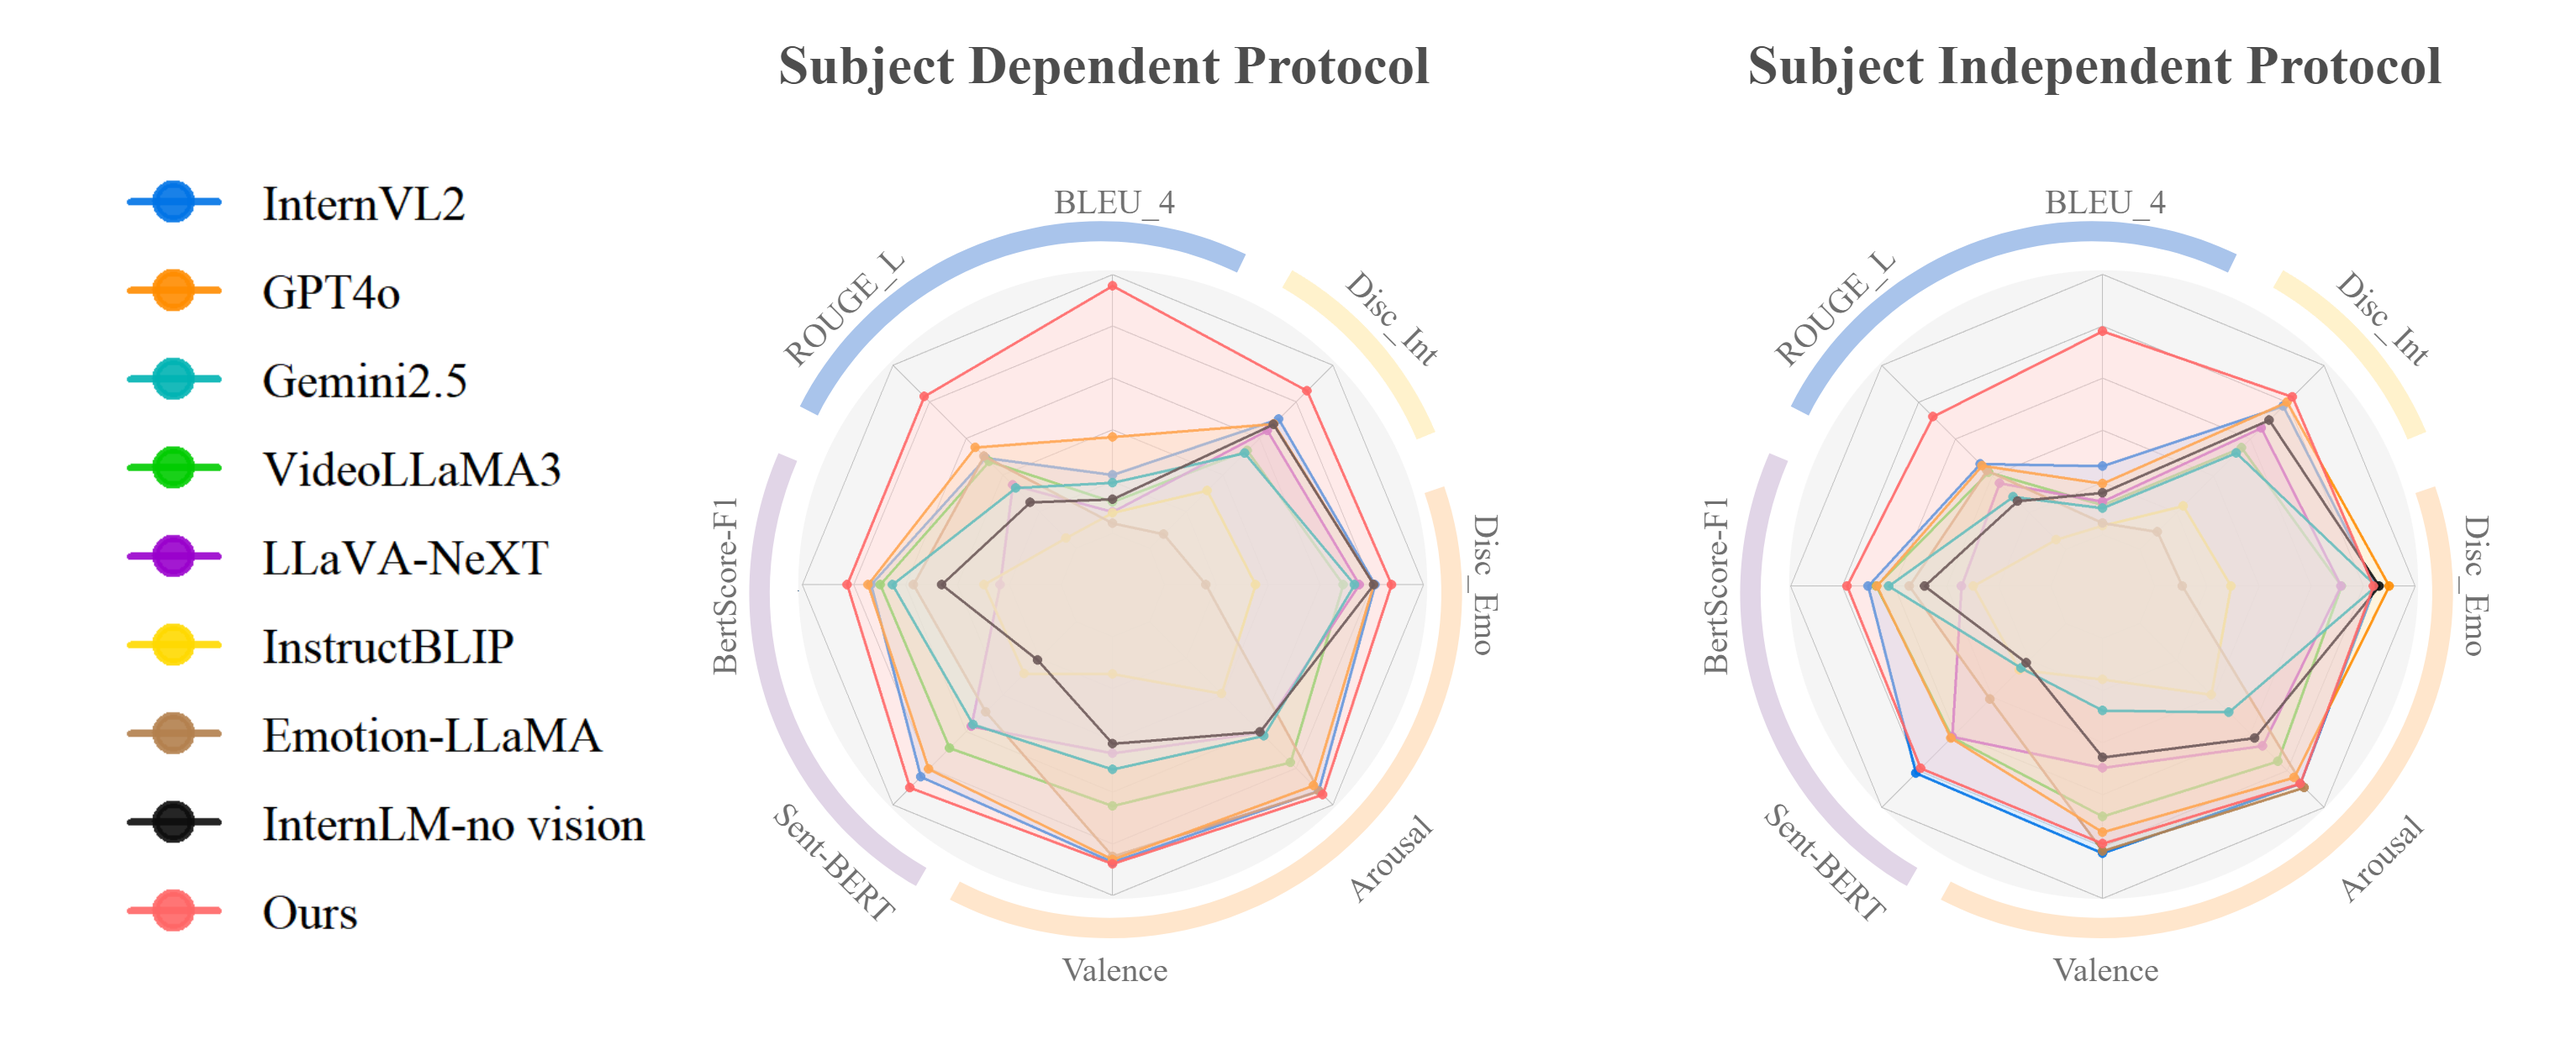
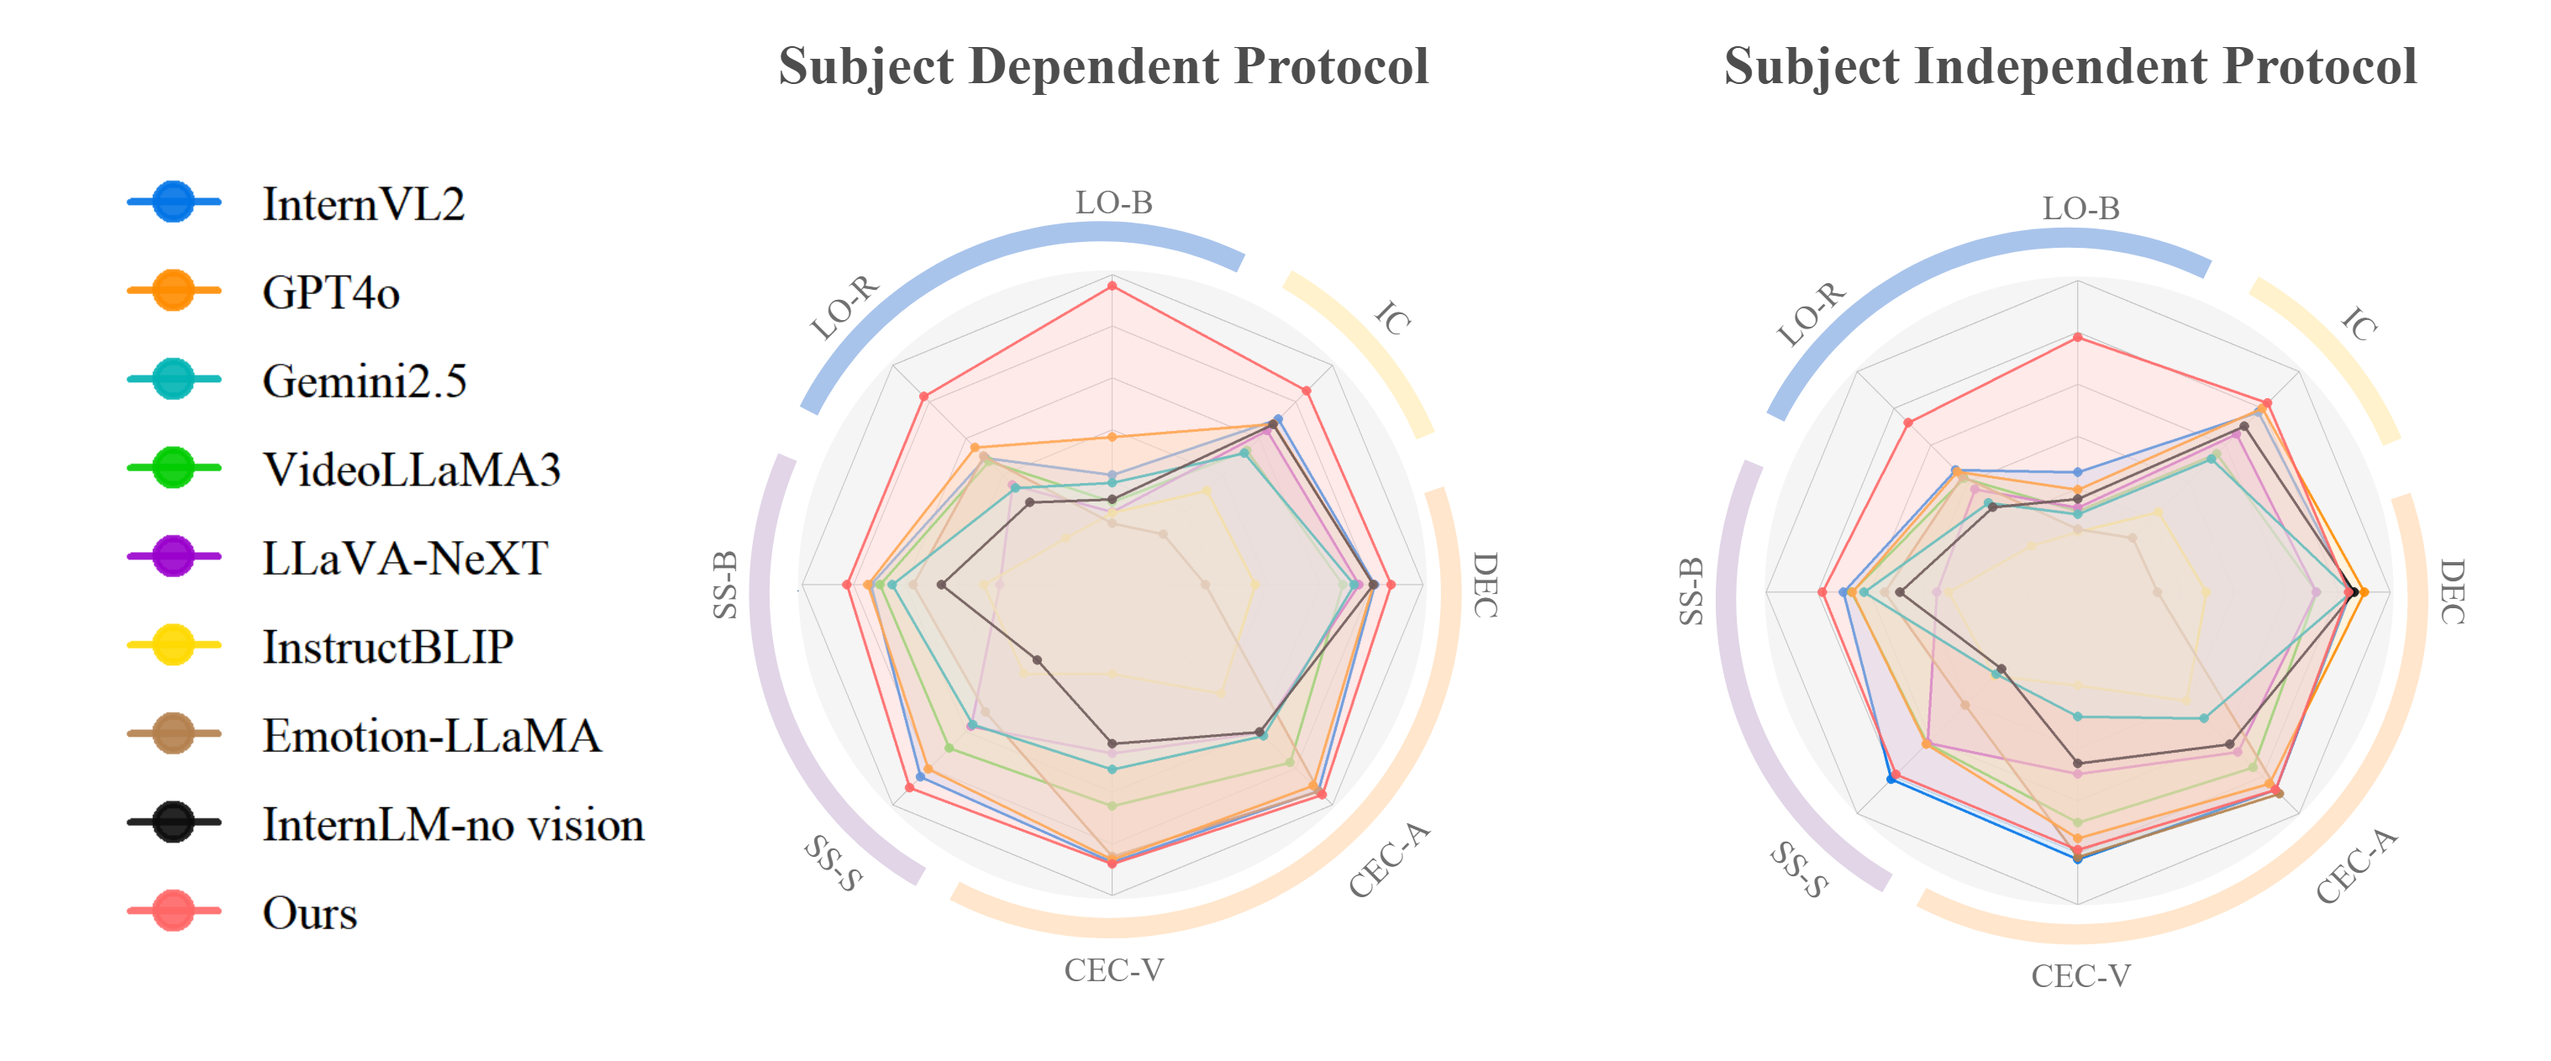
Unify leaderboard column headers to paper abbreviations and update radar chart
- Rename column titles: BLEU-4→LO-B, ROUGE-L→LO-R, BertScore-F1→SS-B,
  Sentence-BERT→SS-S, Valence→CEC-V, Arousal→CEC-A,
  LLM-Judge (GPT)→J_GPT, LLM-Judge (Gem)→J_Gem (HTML subscript)
- Update radar.png to latest version

diff --git a/web/js/leaderboard.js b/web/js/leaderboard.js
@@ -126,11 +126,11 @@ document.addEventListener('DOMContentLoaded', function () {
                 title: "Lexical Overlap",
                 columns: [
                     {
-                        title: "BLEU-4", field: "BLEU-4", hozAlign: "center", formatter: colorFormatter, minWidth: 90, responsive: 2, headerHozAlign: "center",
+                        title: "LO-B", field: "BLEU-4", hozAlign: "center", formatter: colorFormatter, minWidth: 90, responsive: 2, headerHozAlign: "center",
                         formatterParams: { decimals: 3, endColor: { r: 225, g: 213, b: 232 } }
                     },
                     {
-                        title: "ROUGE-L", field: "ROUGE-L", hozAlign: "center", formatter: colorFormatter, minWidth: 90, responsive: 2, headerHozAlign: "center",
+                        title: "LO-R", field: "ROUGE-L", hozAlign: "center", formatter: colorFormatter, minWidth: 90, responsive: 2, headerHozAlign: "center",
                         formatterParams: { decimals: 3, endColor: { r: 225, g: 213, b: 232 } }
                     },
                 ],
@@ -140,11 +140,11 @@ document.addEventListener('DOMContentLoaded', function () {
                 title: "Semantic Similarity",
                 columns: [
                     {
-                        title: "BertScore-F1", field: "BertScore-F1", hozAlign: "center", formatter: colorFormatter, minWidth: 90, headerHozAlign: "center",
+                        title: "SS-B", field: "BertScore-F1", hozAlign: "center", formatter: colorFormatter, minWidth: 90, headerHozAlign: "center",
                         formatterParams: { decimals: 4, endColor: { r: 222, g: 233, b: 252 } }
                     },
                     {
-                        title: "Sentence-BERT", field: "Sentence-BERT", hozAlign: "center", formatter: colorFormatter, minWidth: 90, headerHozAlign: "center",
+                        title: "SS-S", field: "Sentence-BERT", hozAlign: "center", formatter: colorFormatter, minWidth: 90, headerHozAlign: "center",
                         formatterParams: { decimals: 4, endColor: { r: 222, g: 233, b: 252 } }
                     },
                 ],
@@ -154,11 +154,11 @@ document.addEventListener('DOMContentLoaded', function () {
                 title: "Emotion-Intention Consistency",
                 columns: [
                     {
-                        title: "Valence", field: "Valence", hozAlign: "center", formatter: colorFormatter, minWidth: 90, headerHozAlign: "center",
+                        title: "CEC-V", field: "Valence", hozAlign: "center", formatter: colorFormatter, minWidth: 90, headerHozAlign: "center",
                         formatterParams: { decimals: 5, endColor: { r: 252, g: 242, b: 204 } }
                     },
                     {
-                        title: "Arousal", field: "Arousal", hozAlign: "center", formatter: colorFormatter, minWidth: 90, headerHozAlign: "center",
+                        title: "CEC-A", field: "Arousal", hozAlign: "center", formatter: colorFormatter, minWidth: 90, headerHozAlign: "center",
                         formatterParams: { decimals: 5, endColor: { r: 252, g: 242, b: 204 } }
                     },
                     {
@@ -176,11 +176,11 @@ document.addEventListener('DOMContentLoaded', function () {
                 title: "Overall Alignment",
                 columns: [
                     {
-                        title: "LLM-Judge (GPT)", field: "LLM-Judge-GPT", hozAlign: "center", formatter: colorFormatter, minWidth: 110, headerHozAlign: "center",
+                        title: "J<sub>GPT</sub>", field: "LLM-Judge-GPT", hozAlign: "center", formatter: colorFormatter, minWidth: 110, headerHozAlign: "center",
                         formatterParams: { decimals: 2, endColor: { r: 204, g: 235, b: 215 } }
                     },
                     {
-                        title: "LLM-Judge (Gem)", field: "LLM-Judge-Gem", hozAlign: "center", formatter: colorFormatter, minWidth: 110, headerHozAlign: "center",
+                        title: "J<sub>Gem</sub>", field: "LLM-Judge-Gem", hozAlign: "center", formatter: colorFormatter, minWidth: 110, headerHozAlign: "center",
                         formatterParams: { decimals: 2, endColor: { r: 204, g: 235, b: 215 } }
                     },
                 ],
@@ -200,11 +200,11 @@ document.addEventListener('DOMContentLoaded', function () {
                 title: "Lexical Overlap",
                 columns: [
                     {
-                        title: "BLEU-4", field: "BLEU-4", hozAlign: "center", formatter: colorFormatter, minWidth: 90, responsive: 2, headerHozAlign: "center",
+                        title: "LO-B", field: "BLEU-4", hozAlign: "center", formatter: colorFormatter, minWidth: 90, responsive: 2, headerHozAlign: "center",
                         formatterParams: { decimals: 3, endColor: { r: 225, g: 213, b: 232 } }
                     },
                     {
-                        title: "ROUGE-L", field: "ROUGE-L", hozAlign: "center", formatter: colorFormatter, minWidth: 90, responsive: 2, headerHozAlign: "center",
+                        title: "LO-R", field: "ROUGE-L", hozAlign: "center", formatter: colorFormatter, minWidth: 90, responsive: 2, headerHozAlign: "center",
                         formatterParams: { decimals: 3, endColor: { r: 225, g: 213, b: 232 } }
                     },
                 ],
@@ -214,11 +214,11 @@ document.addEventListener('DOMContentLoaded', function () {
                 title: "Semantic Similarity",
                 columns: [
                     {
-                        title: "BertScore-F1", field: "BertScore-F1", hozAlign: "center", formatter: colorFormatter, minWidth: 90, headerHozAlign: "center",
+                        title: "SS-B", field: "BertScore-F1", hozAlign: "center", formatter: colorFormatter, minWidth: 90, headerHozAlign: "center",
                         formatterParams: { decimals: 4, endColor: { r: 222, g: 233, b: 252 } }
                     },
                     {
-                        title: "Sentence-BERT", field: "Sentence-BERT", hozAlign: "center", formatter: colorFormatter, minWidth: 90, headerHozAlign: "center",
+                        title: "SS-S", field: "Sentence-BERT", hozAlign: "center", formatter: colorFormatter, minWidth: 90, headerHozAlign: "center",
                         formatterParams: { decimals: 4, endColor: { r: 222, g: 233, b: 252 } }
                     },
                 ],
@@ -228,11 +228,11 @@ document.addEventListener('DOMContentLoaded', function () {
                 title: "Emotion-Intention Consistency",
                 columns: [
                     {
-                        title: "Valence", field: "Valence", hozAlign: "center", formatter: colorFormatter, minWidth: 90, headerHozAlign: "center",
+                        title: "CEC-V", field: "Valence", hozAlign: "center", formatter: colorFormatter, minWidth: 90, headerHozAlign: "center",
                         formatterParams: { decimals: 5, endColor: { r: 252, g: 242, b: 204 } }
                     },
                     {
-                        title: "Arousal", field: "Arousal", hozAlign: "center", formatter: colorFormatter, minWidth: 90, headerHozAlign: "center",
+                        title: "CEC-A", field: "Arousal", hozAlign: "center", formatter: colorFormatter, minWidth: 90, headerHozAlign: "center",
                         formatterParams: { decimals: 5, endColor: { r: 252, g: 242, b: 204 } }
                     },
                     {
@@ -260,11 +260,11 @@ document.addEventListener('DOMContentLoaded', function () {
                 title: "Lexical Overlap",
                 columns: [
                     {
-                        title: "BLEU-4", field: "BLEU-4", hozAlign: "center", formatter: colorFormatter, minWidth: 90, responsive: 2, headerHozAlign: "center",
+                        title: "LO-B", field: "BLEU-4", hozAlign: "center", formatter: colorFormatter, minWidth: 90, responsive: 2, headerHozAlign: "center",
                         formatterParams: { decimals: 3, endColor: { r: 225, g: 213, b: 232 } }
                     },
                     {
-                        title: "ROUGE-L", field: "ROUGE-L", hozAlign: "center", formatter: colorFormatter, minWidth: 90, responsive: 2, headerHozAlign: "center",
+                        title: "LO-R", field: "ROUGE-L", hozAlign: "center", formatter: colorFormatter, minWidth: 90, responsive: 2, headerHozAlign: "center",
                         formatterParams: { decimals: 3, endColor: { r: 225, g: 213, b: 232 } }
                     },
                 ],
@@ -274,11 +274,11 @@ document.addEventListener('DOMContentLoaded', function () {
                 title: "Semantic Similarity",
                 columns: [
                     {
-                        title: "BertScore-F1", field: "BertScore-F1", hozAlign: "center", formatter: colorFormatter, minWidth: 90, headerHozAlign: "center",
+                        title: "SS-B", field: "BertScore-F1", hozAlign: "center", formatter: colorFormatter, minWidth: 90, headerHozAlign: "center",
                         formatterParams: { decimals: 4, endColor: { r: 222, g: 233, b: 252 } }
                     },
                     {
-                        title: "Sentence-BERT", field: "Sentence-BERT", hozAlign: "center", formatter: colorFormatter, minWidth: 90, headerHozAlign: "center",
+                        title: "SS-S", field: "Sentence-BERT", hozAlign: "center", formatter: colorFormatter, minWidth: 90, headerHozAlign: "center",
                         formatterParams: { decimals: 4, endColor: { r: 222, g: 233, b: 252 } }
                     },
                 ],
@@ -288,11 +288,11 @@ document.addEventListener('DOMContentLoaded', function () {
                 title: "Emotion-Intention Consistency",
                 columns: [
                     {
-                        title: "Valence", field: "Valence", hozAlign: "center", formatter: colorFormatter, minWidth: 90, headerHozAlign: "center",
+                        title: "CEC-V", field: "Valence", hozAlign: "center", formatter: colorFormatter, minWidth: 90, headerHozAlign: "center",
                         formatterParams: { decimals: 5, endColor: { r: 252, g: 242, b: 204 } }
                     },
                     {
-                        title: "Arousal", field: "Arousal", hozAlign: "center", formatter: colorFormatter, minWidth: 90, headerHozAlign: "center",
+                        title: "CEC-A", field: "Arousal", hozAlign: "center", formatter: colorFormatter, minWidth: 90, headerHozAlign: "center",
                         formatterParams: { decimals: 5, endColor: { r: 252, g: 242, b: 204 } }
                     },
                     {
@@ -320,11 +320,11 @@ document.addEventListener('DOMContentLoaded', function () {
                 title: "Lexical Overlap",
                 columns: [
                     {
-                        title: "BLEU-4", field: "BLEU-4", hozAlign: "center", formatter: colorFormatter, minWidth: 90, responsive: 2, headerHozAlign: "center",
+                        title: "LO-B", field: "BLEU-4", hozAlign: "center", formatter: colorFormatter, minWidth: 90, responsive: 2, headerHozAlign: "center",
                         formatterParams: { decimals: 3, endColor: { r: 225, g: 213, b: 232 } }
                     },
                     {
-                        title: "ROUGE-L", field: "ROUGE-L", hozAlign: "center", formatter: colorFormatter, minWidth: 90, responsive: 2, headerHozAlign: "center",
+                        title: "LO-R", field: "ROUGE-L", hozAlign: "center", formatter: colorFormatter, minWidth: 90, responsive: 2, headerHozAlign: "center",
                         formatterParams: { decimals: 3, endColor: { r: 225, g: 213, b: 232 } }
                     },
                 ],
@@ -334,11 +334,11 @@ document.addEventListener('DOMContentLoaded', function () {
                 title: "Semantic Similarity",
                 columns: [
                     {
-                        title: "BertScore-F1", field: "BertScore-F1", hozAlign: "center", formatter: colorFormatter, minWidth: 90, headerHozAlign: "center",
+                        title: "SS-B", field: "BertScore-F1", hozAlign: "center", formatter: colorFormatter, minWidth: 90, headerHozAlign: "center",
                         formatterParams: { decimals: 4, endColor: { r: 222, g: 233, b: 252 } }
                     },
                     {
-                        title: "Sentence-BERT", field: "Sentence-BERT", hozAlign: "center", formatter: colorFormatter, minWidth: 90, headerHozAlign: "center",
+                        title: "SS-S", field: "Sentence-BERT", hozAlign: "center", formatter: colorFormatter, minWidth: 90, headerHozAlign: "center",
                         formatterParams: { decimals: 4, endColor: { r: 222, g: 233, b: 252 } }
                     },
                 ],
@@ -348,11 +348,11 @@ document.addEventListener('DOMContentLoaded', function () {
                 title: "Emotion-Intention Consistency",
                 columns: [
                     {
-                        title: "Valence", field: "Valence", hozAlign: "center", formatter: colorFormatter, minWidth: 90, headerHozAlign: "center",
+                        title: "CEC-V", field: "Valence", hozAlign: "center", formatter: colorFormatter, minWidth: 90, headerHozAlign: "center",
                         formatterParams: { decimals: 5, endColor: { r: 252, g: 242, b: 204 } }
                     },
                     {
-                        title: "Arousal", field: "Arousal", hozAlign: "center", formatter: colorFormatter, minWidth: 90, headerHozAlign: "center",
+                        title: "CEC-A", field: "Arousal", hozAlign: "center", formatter: colorFormatter, minWidth: 90, headerHozAlign: "center",
                         formatterParams: { decimals: 5, endColor: { r: 252, g: 242, b: 204 } }
                     },
                     {
